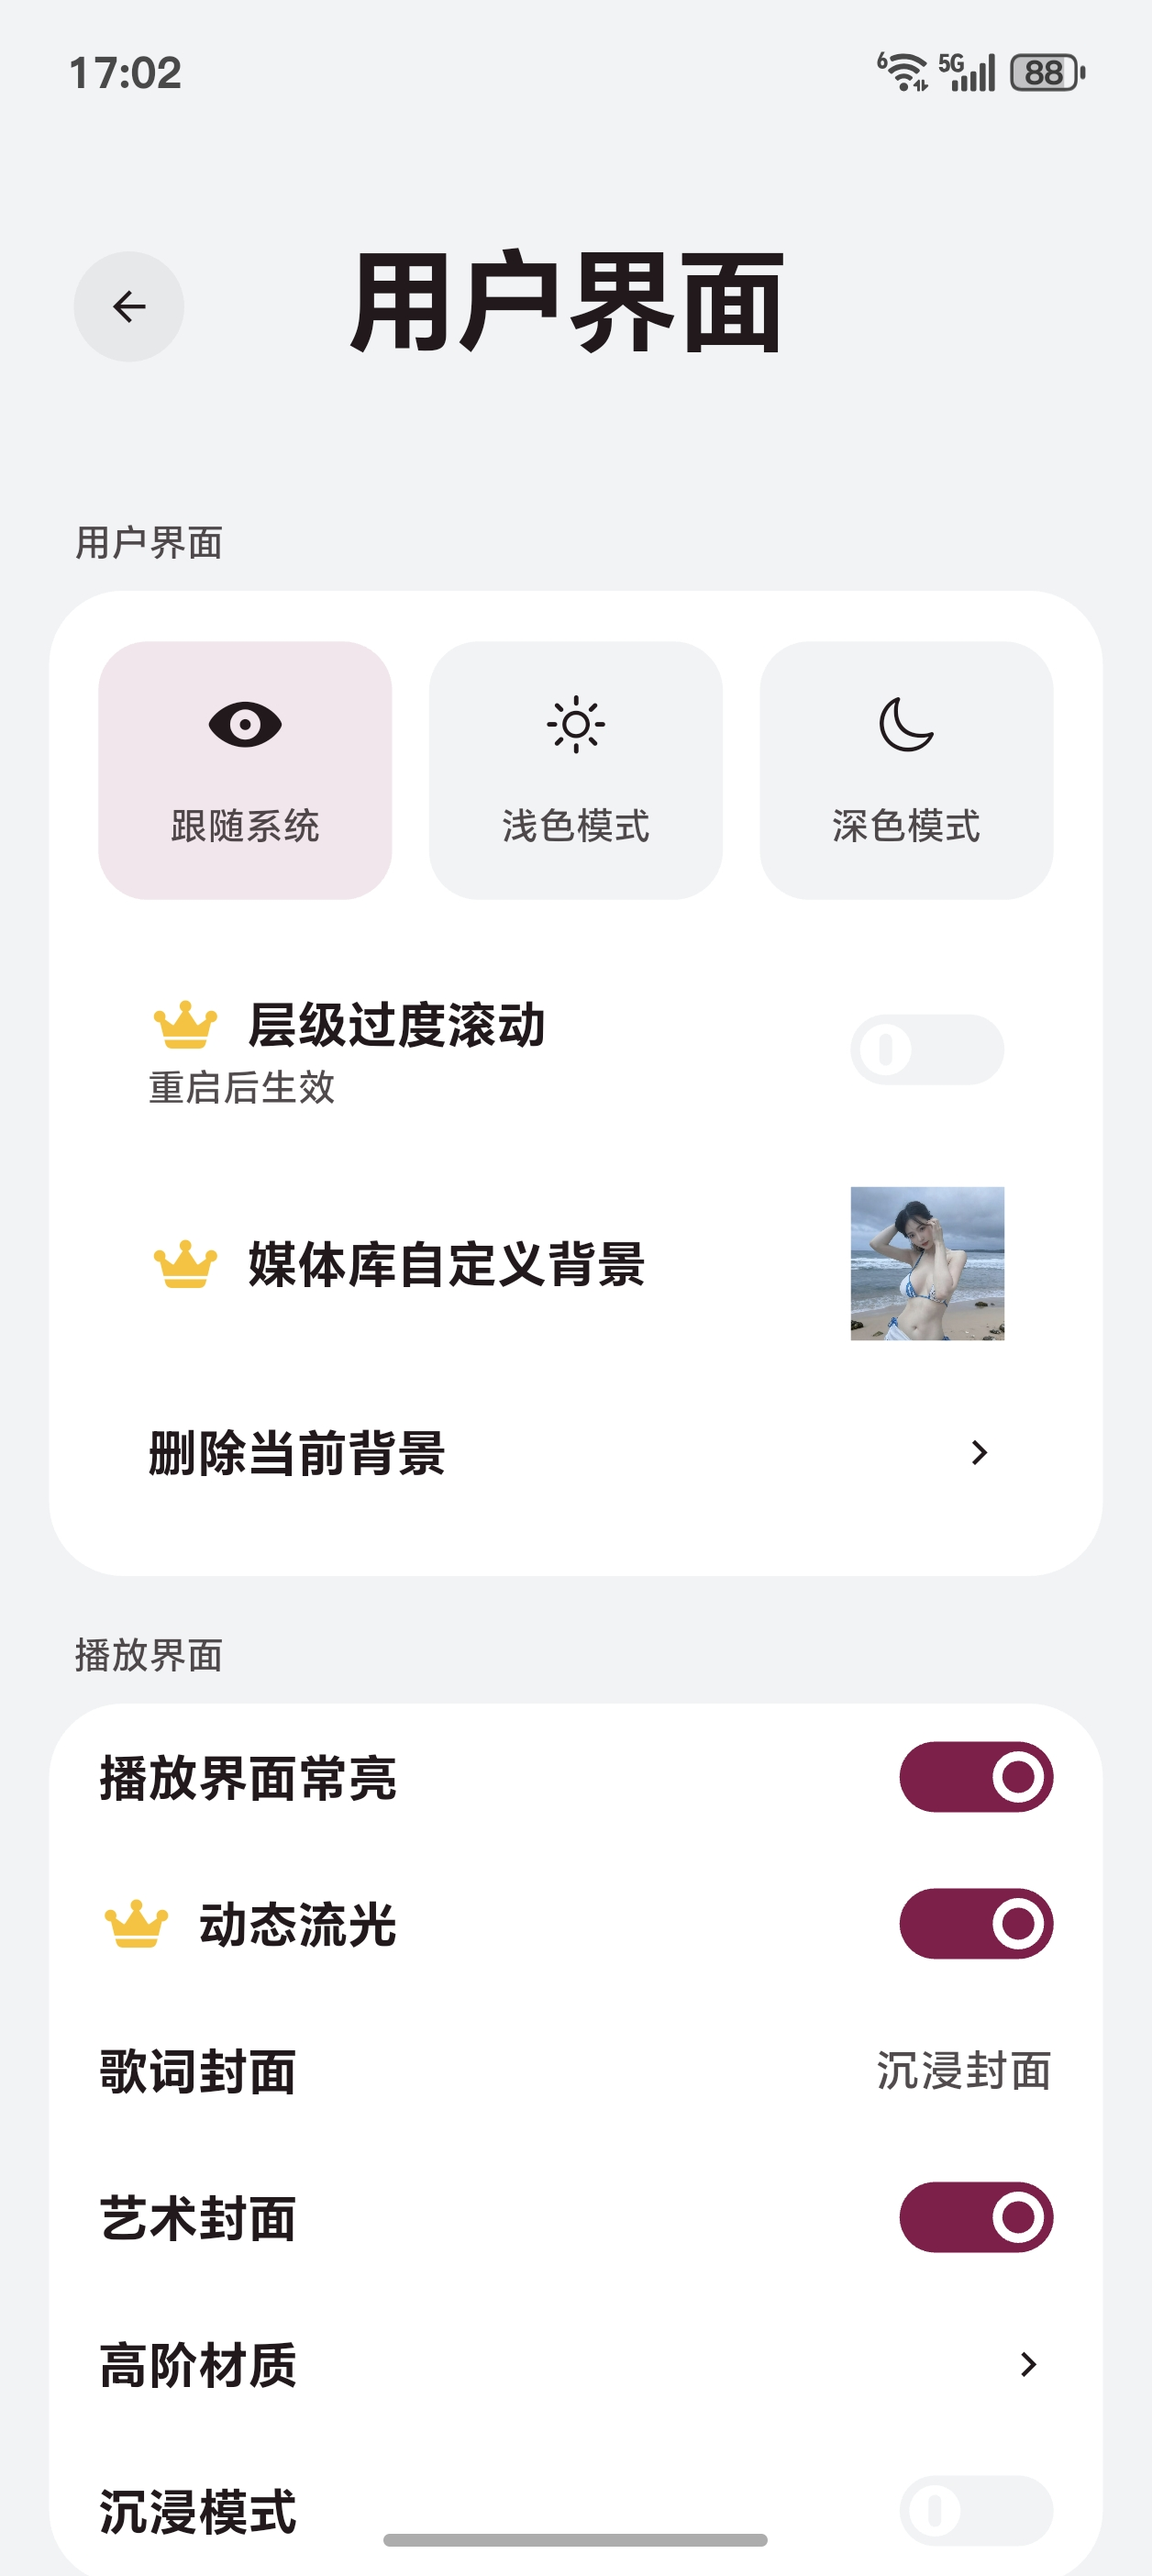
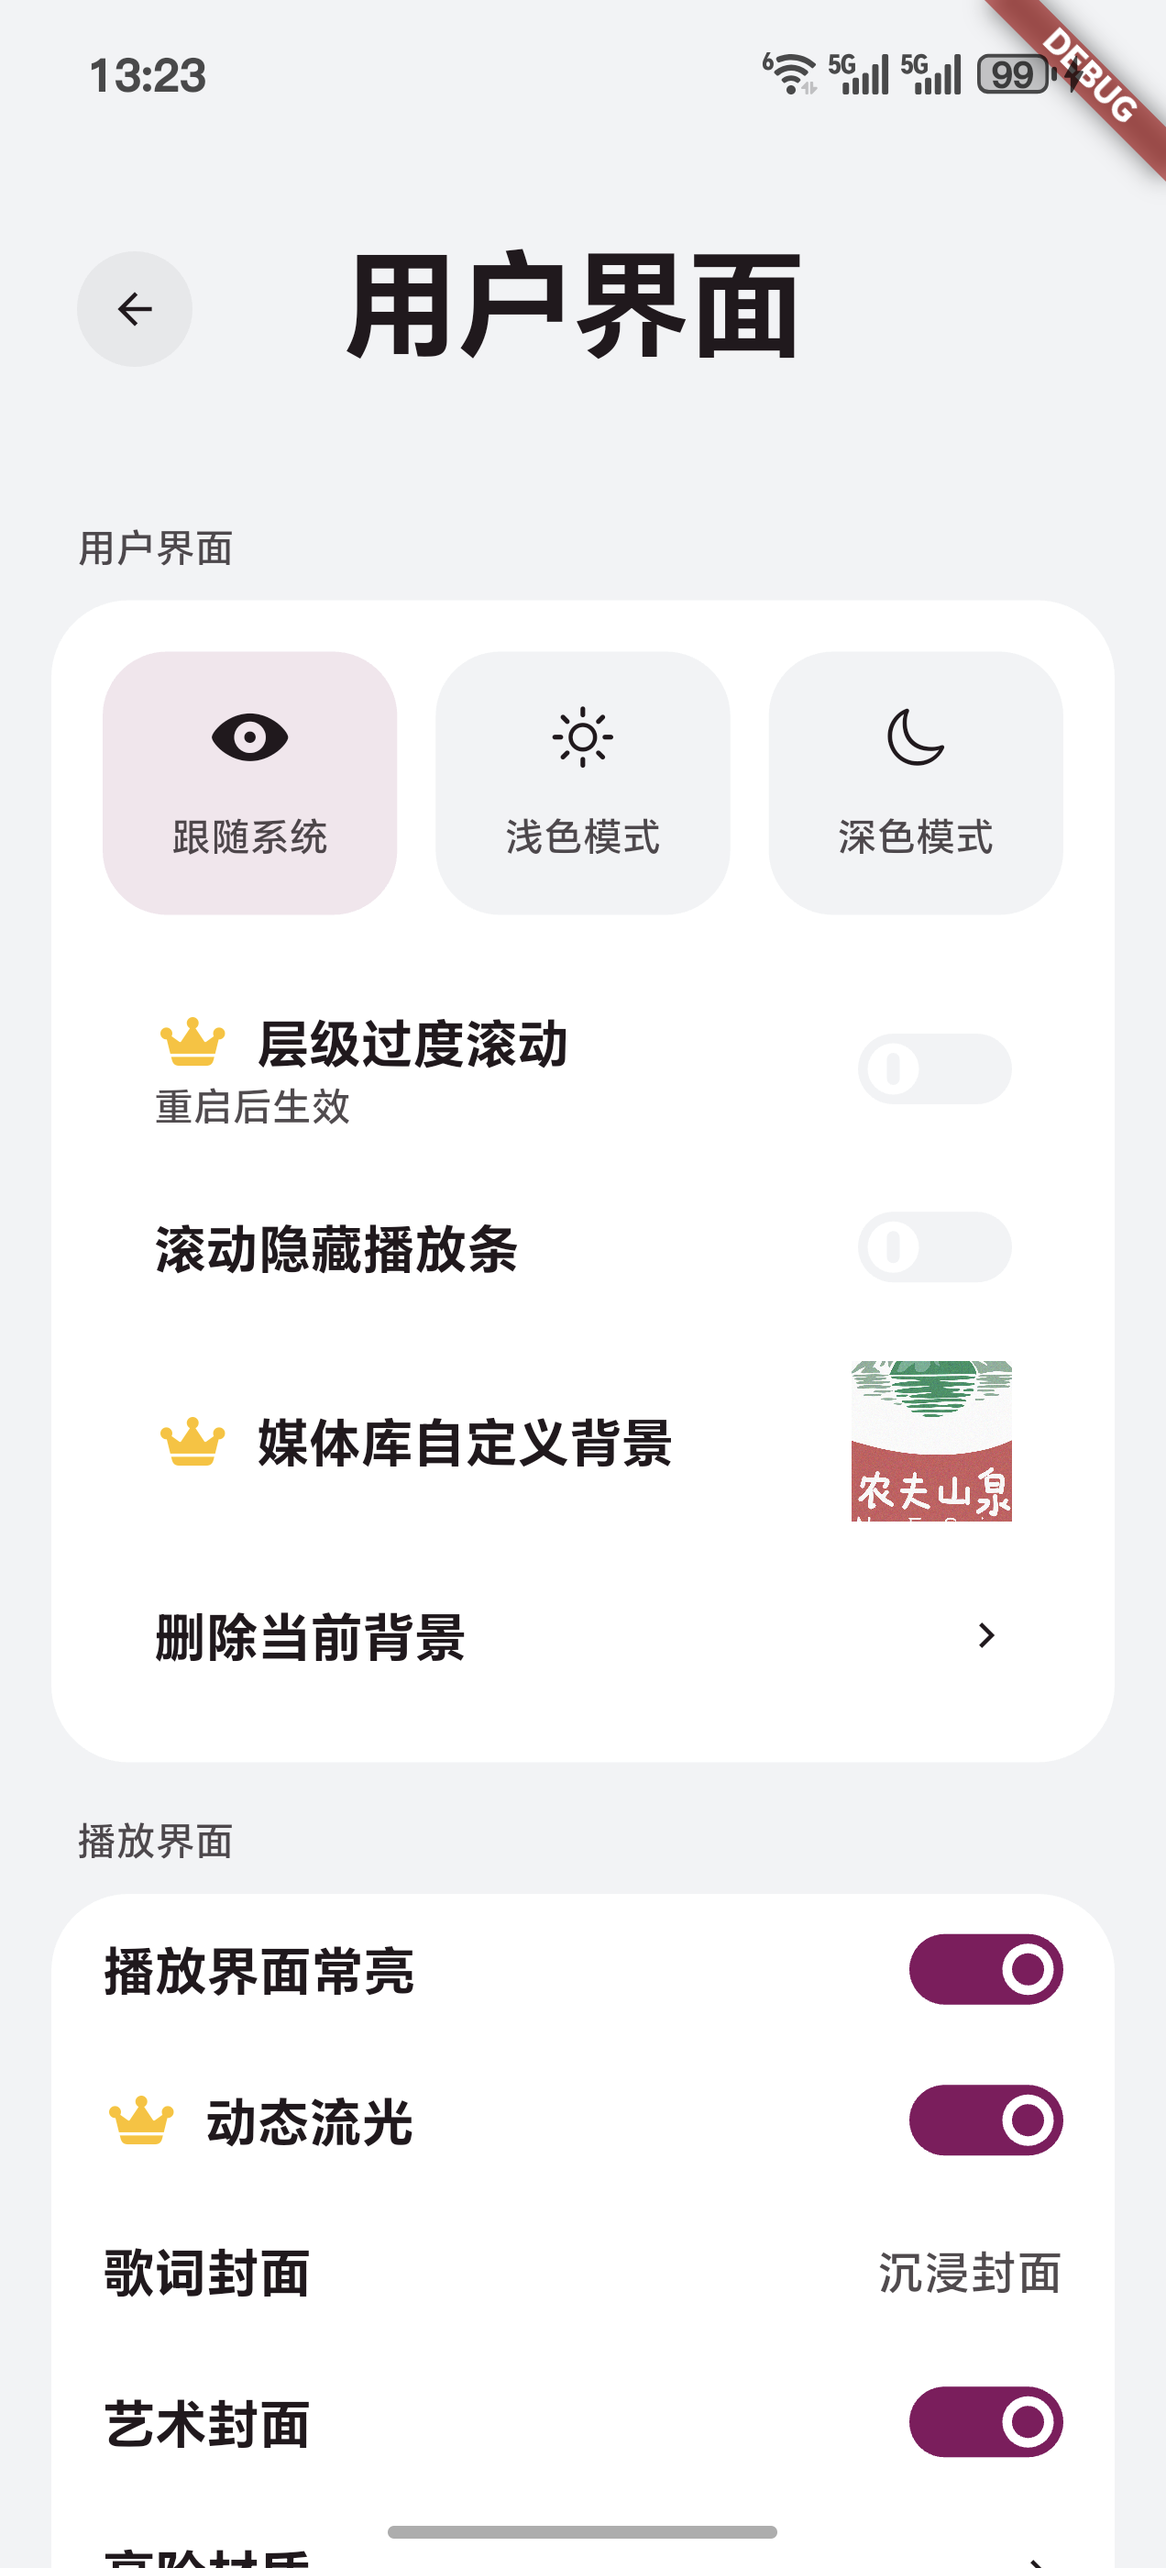
feat: 界面改版

diff --git a/lib/pages/media_library/media_locator/media_locator.dart b/lib/pages/media_library/media_locator/media_locator.dart
@@ -26,38 +26,21 @@ class MediaLocator extends StatelessWidget {
         child: Offstage(
           offstage: offstage,
           child: HighMaterialWrapper(
-            borderRadius: const BorderRadius.all(Radius.circular(100)),
             clipBehavior: (highMaterial) =>
                 highMaterial ? Clip.antiAlias : Clip.none,
-            builder: (highMaterial) => highMaterial
-                ? GlassPanel(
-                    shape: LiquidOval(),
-                    padding: EdgeInsets.zero,
-                    child: FloatingActionButton(
-                      backgroundColor: Colors.transparent,
-                      elevation: 0,
-                      shape: const CircleBorder(),
-                      onPressed: onTap,
-                      child: SFIcon(
-                        SFIcons.sf_dot_radiowaves_left_and_right,
-                        color: theme.colorScheme.onSurface.withAlpha(
-                          AppTheme.defaultAlpha,
-                        ),
-                      ),
-                    ),
-                  )
-                : FloatingActionButton(
-                    backgroundColor: theme.cardTheme.color,
-                    elevation: 6,
-                    shape: const CircleBorder(),
-                    onPressed: onTap,
-                    child: SFIcon(
-                      SFIcons.sf_dot_radiowaves_left_and_right,
-                      color: theme.colorScheme.onSurface.withAlpha(
-                        AppTheme.defaultAlpha,
-                      ),
-                    ),
-                  ),
+            builder: (highMaterial) => FloatingActionButton(
+              backgroundColor: highMaterial
+                  ? Colors.transparent
+                  : theme.cardTheme.color,
+              elevation: highMaterial ? 0 : 6,
+              onPressed: onTap,
+              child: SFIcon(
+                SFIcons.sf_dot_radiowaves_left_and_right,
+                color: theme.colorScheme.onSurface.withAlpha(
+                  AppTheme.defaultAlpha,
+                ),
+              ),
+            ),
           ),
         ),
       ),

diff --git a/lib/models/settings/settings.dart b/lib/models/settings/settings.dart
@@ -102,6 +102,7 @@ class SettingsManager {
   final Signal<BrightnessTheme> _brightnessTheme;
   final Signal<ListType> _listType;
   final Signal<bool> _isMaterialScrollBehavior;
+  final Signal<bool> _scrollHidePlayBar;
   final Signal<CoverShape> _coverShape;
   final Signal<bool> _artCover;
   final Signal<bool> _wakelock;
@@ -121,6 +122,8 @@ class SettingsManager {
   Signal<ListType> get listType => _listType;
 
   Signal<bool> get isMaterialScrollBehavior => _isMaterialScrollBehavior;
+
+  Signal<bool> get scrollHidePlayBar => _scrollHidePlayBar;
 
   Signal<CoverShape> get coverShape => _coverShape;
 
@@ -149,6 +152,7 @@ class SettingsManager {
       _brightnessTheme = signal(BrightnessTheme.system),
       _listType = signal(ListType.media),
       _isMaterialScrollBehavior = signal(false),
+      _scrollHidePlayBar = signal(true),
       _coverShape = signal(CoverShape.circle),
       _artCover = signal(true),
       _wakelock = signal(false),
@@ -184,6 +188,11 @@ class SettingsManager {
     _isMaterialScrollBehavior.value = _settingsBox.get(
       CacheKey.Settings.isMaterialScrollBehavior,
       defaultValue: false,
+    );
+
+    _isMaterialScrollBehavior.value = _settingsBox.get(
+      CacheKey.Settings.scrollHidePlayBar,
+      defaultValue: true,
     );
 
     _coverShape.value = CoverShape.getByValue(
@@ -263,6 +272,12 @@ class SettingsManager {
     _isMaterialScrollBehavior.value = value;
 
     _settingsBox.put(CacheKey.Settings.isMaterialScrollBehavior, value);
+  }
+
+  void setScrollHidePlayBar(bool value) {
+    _scrollHidePlayBar.value = value;
+
+    _settingsBox.put(CacheKey.Settings.scrollHidePlayBar, value);
   }
 
   void setCoverShape(CoverShape value) {

diff --git a/lib/pages/home/page.dart b/lib/pages/home/page.dart
@@ -81,19 +81,23 @@ class _HomePageState extends State<HomePage>
           backgroundColor: listBg.isNotEmpty
               ? Colors.transparent
               : theme.scaffoldBackgroundColor,
-          bottomNavigationBar: BottomBar(
-            selectedIndex: widget.navigationShell.currentIndex,
-            onSearch: () => homeController.navToSearch(context),
-            onTabSelected: widget.navigationShell.goBranch,
-          ),
+          bottomNavigationBar: mediaList.isNotEmpty
+              ? BottomBar(
+                  selectedIndex: widget.navigationShell.currentIndex,
+                  onSearch: () => homeController.navToSearch(context),
+                  onTabSelected: widget.navigationShell.goBranch,
+                )
+              : null,
           body: Stack(
             alignment: Alignment.bottomCenter,
             children: [
               widget.navigationShell,
-              PlayBar(
-                hidePlayBar: hidePlayBar,
-                onTap: () => homeController.handleOpenPanel(context),
-              ),
+
+              if (mediaList.isNotEmpty)
+                PlayBar(
+                  hidePlayBar: hidePlayBar,
+                  onTap: () => homeController.handleOpenPanel(context),
+                ),
             ],
           ),
         ),

diff --git a/lib/pages/settings/interface/page.dart b/lib/pages/settings/interface/page.dart
@@ -30,6 +30,7 @@ class InterfacePage extends StatelessWidget {
     final brightnessTheme = settingsManager.brightnessTheme.watch(context),
         isMaterialScrollBehavior = settingsManager.isMaterialScrollBehavior
             .watch(context),
+        scrollHidePlayBar = settingsManager.scrollHidePlayBar.watch(context),
         coverShape = settingsManager.coverShape.watch(context),
         artCover = settingsManager.artCover.watch(context),
         wakelock = settingsManager.wakelock.watch(context),
@@ -72,6 +73,12 @@ class InterfacePage extends StatelessWidget {
                 isSwitch: true,
                 value: isMaterialScrollBehavior,
                 onChanged: settingsManager.setIsMaterialScrollBehavior,
+              ),
+              ListItem(
+                title: '滚动隐藏播放条',
+                isSwitch: true,
+                value: scrollHidePlayBar,
+                onChanged: settingsManager.setScrollHidePlayBar,
               ),
               ListItem(
                 isPro: true,

diff --git a/lib/components/high_material_wrapper/high_material_wrapper.dart b/lib/components/high_material_wrapper/high_material_wrapper.dart
@@ -1,7 +1,9 @@
 import 'dart:ui';
 
+import 'package:IceyPlayer/constants/glass_settings.dart';
 import 'package:IceyPlayer/models/settings/settings.dart';
 import 'package:flutter/material.dart';
+import 'package:liquid_glass_widgets/liquid_glass_widgets.dart';
 import 'package:signals/signals_flutter.dart';
 
 class HighMaterialWrapper extends StatelessWidget {
@@ -36,6 +38,13 @@ class HighMaterialWrapper extends StatelessWidget {
     return Builder(
       builder: (context) {
         if (obscure) {
+          return GlassPanel(
+            settings: RecommendedGlassSettings.bottomBar,
+            padding: padding ?? EdgeInsets.zero,
+            margin: margin,
+            child: builder(true),
+          );
+
           return Container(
             padding: padding,
             margin: margin,

diff --git a/lib/components/play_bar/play_bar.dart b/lib/components/play_bar/play_bar.dart
@@ -48,7 +48,7 @@ class PlayBar extends StatelessWidget {
             padding: EdgeInsets.zero,
             settings: LiquidGlassSettings(
               blur: 3,
-              thickness: 10,
+              thickness: 16,
               glassColor: Color.fromRGBO(255, 255, 255, 0.01),
               lightAngle: 135,
               lightIntensity: 0.7,

diff --git a/lib/constants/cache_key.dart b/lib/constants/cache_key.dart
@@ -35,6 +35,8 @@ class _SettingsKeys {
 
   final String brightness = "settings_brightness";
 
+  final String scrollHidePlayBar = "settings_scrollHidePlayBar";
+
   final String isMaterialScrollBehavior = "settings_isMaterialScrollBehavior";
 
   /// 封面样式

diff --git a/lib/pages/home/controller.dart b/lib/pages/home/controller.dart
@@ -334,6 +334,8 @@ class HomeController {
   }
 
   void _listenMediaListScroll() {
+    if (!settingsManager.scrollHidePlayBar.value) return;
+
     late final double currentOffset;
 
     if (settingsManager.listType.value == ListType.media) {
